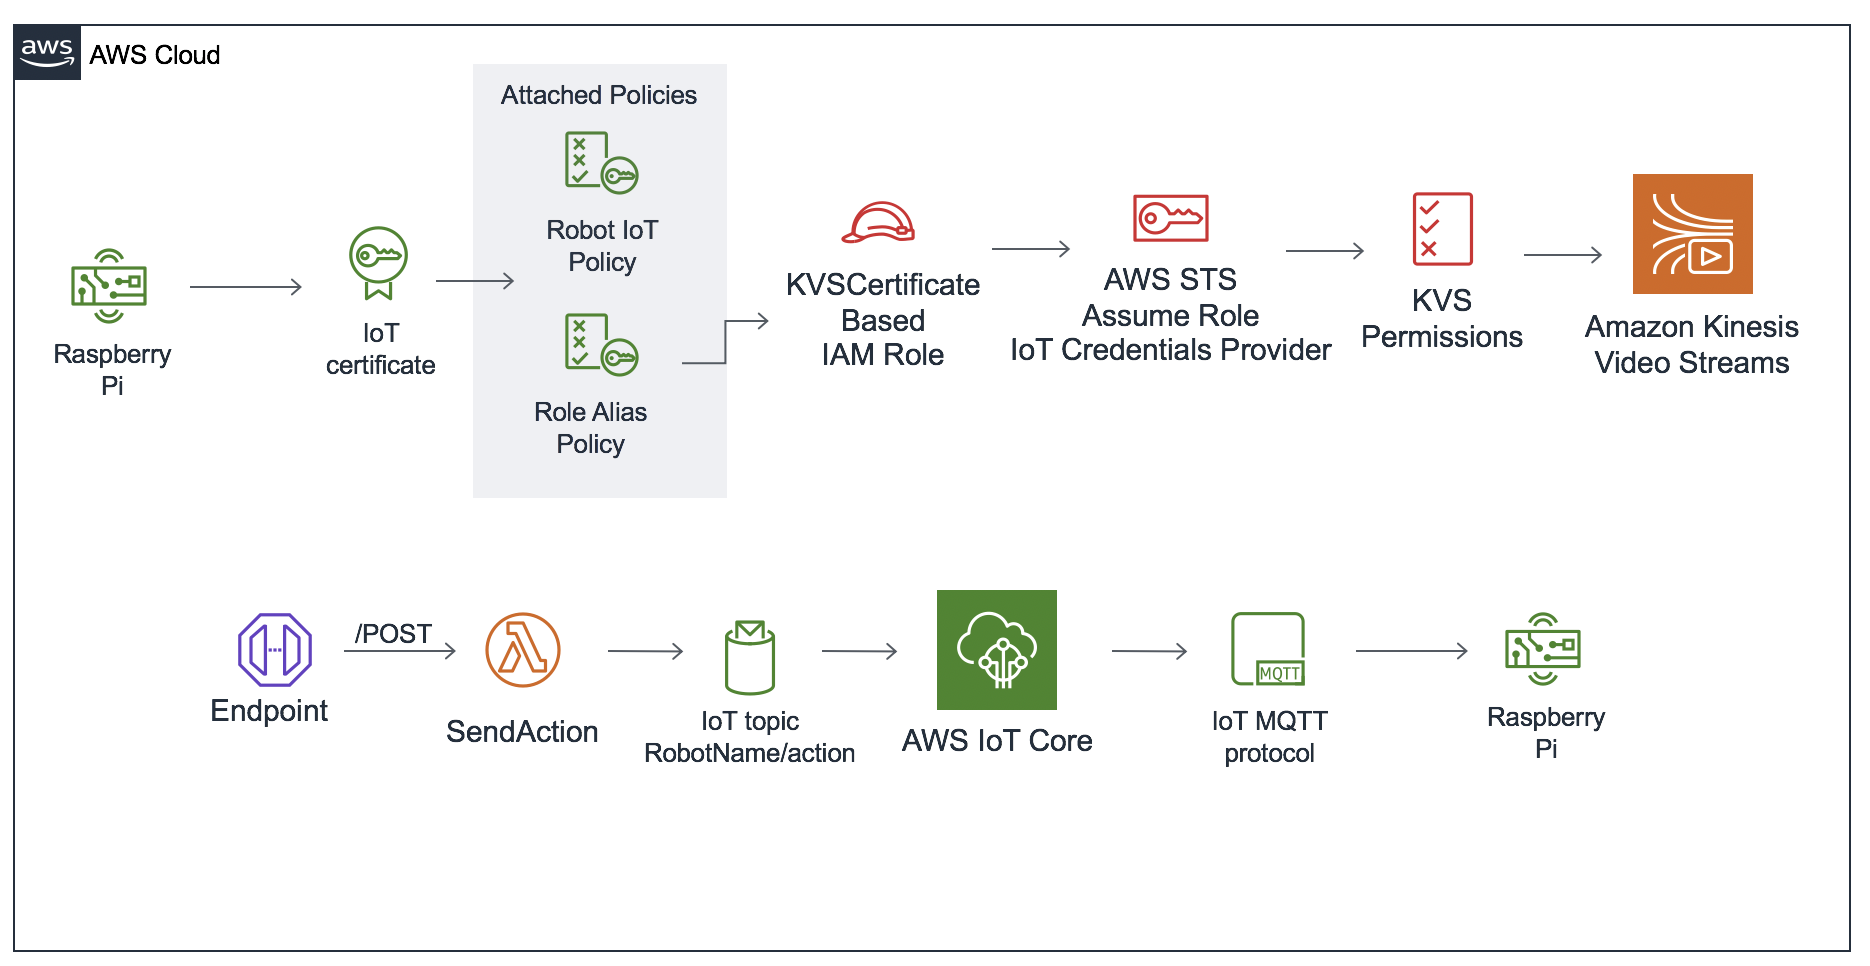
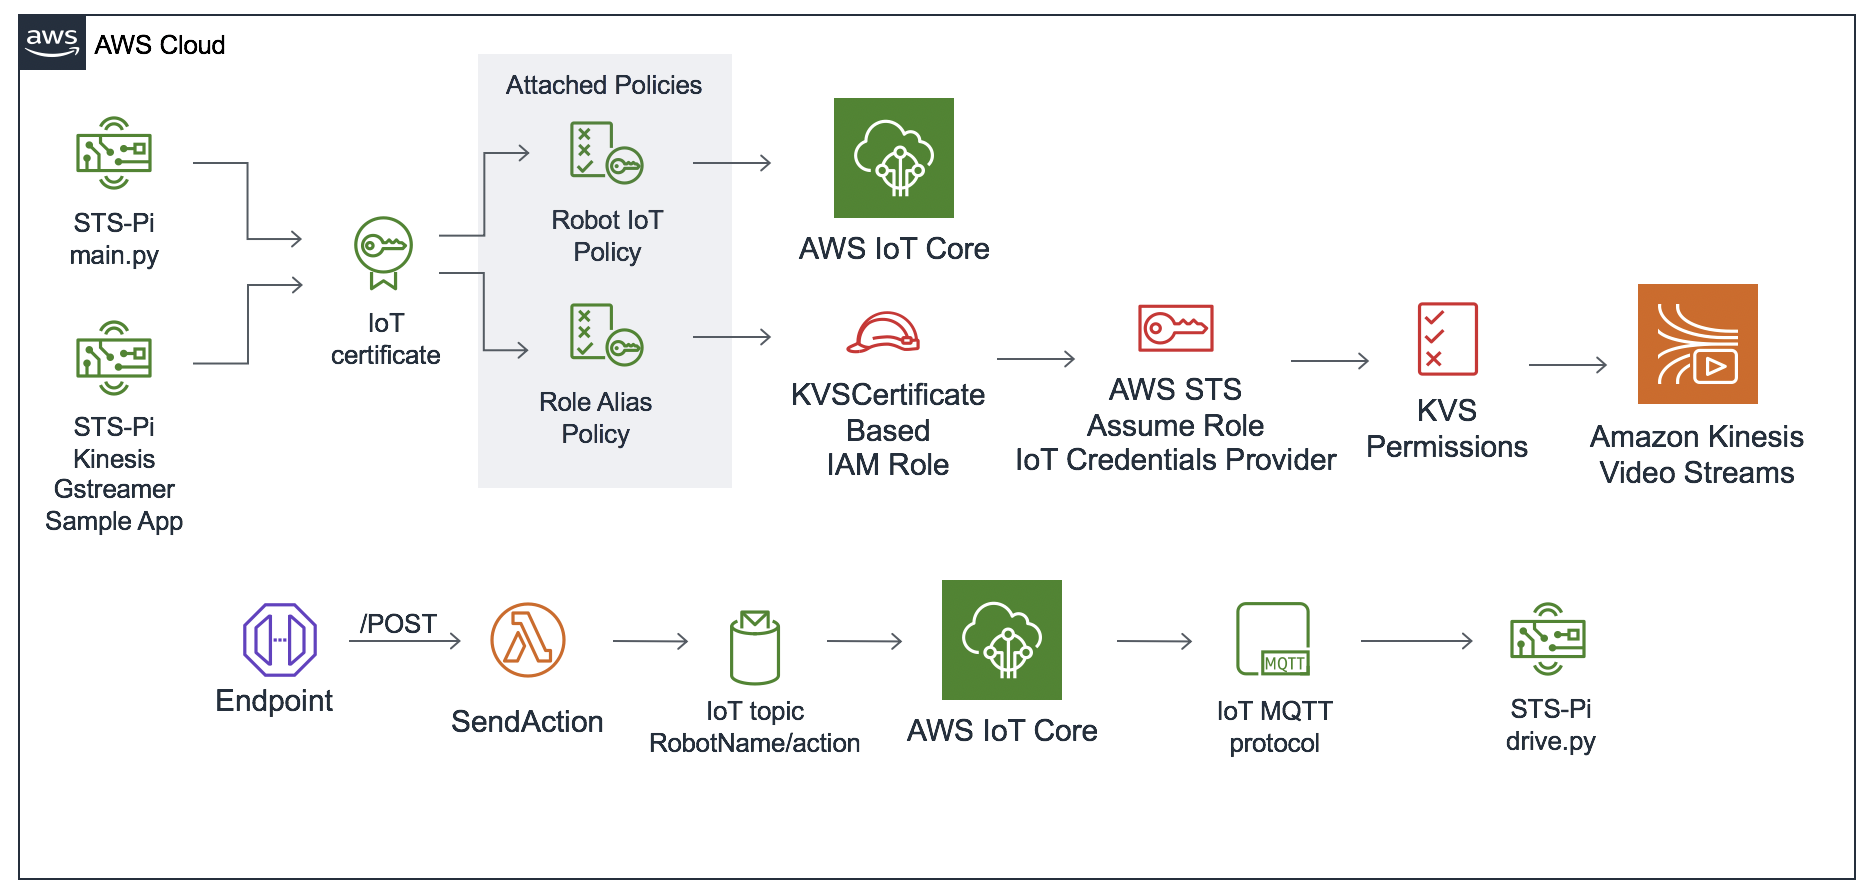
add image

diff --git a/README.md b/README.md
@@ -12,7 +12,7 @@ This project contains all the files neccesary to deploy a serverless telepresenc
 │       └── app.js             <-- Publish messages on an IoT topic
 │  └── customresources
 │       └── credentialsEndpoint.js  <-- Lambda handler for IoT Credentials endpoint custom resource
-│       └── kinesisVideoStream.js   <-- Lambda handler for Kinesis Video Stream custom resource
+│       └── kinesisVideoStream.js   <-- Lambda handler for Kinesis Video Signaling Channel custom resource
 │       └── roleAlias.js            <-- Lambda handler for Role Alias custom resource
 ├── scripts
 │  └── main.py                     <-- Script for driving the robot via AWS IoT messages
